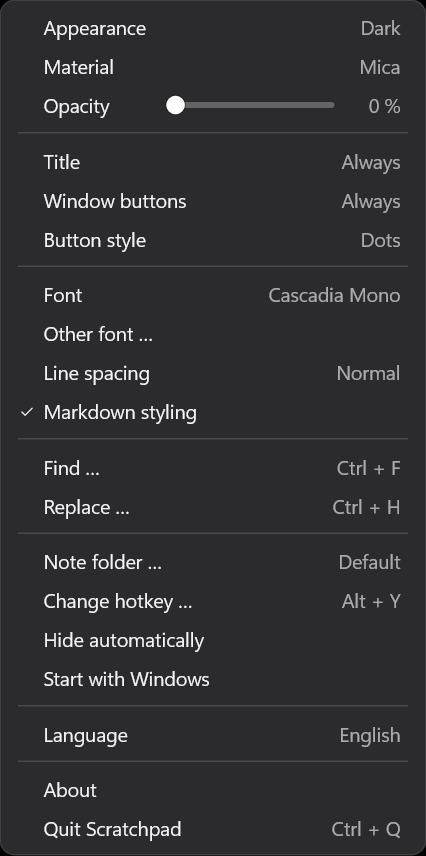
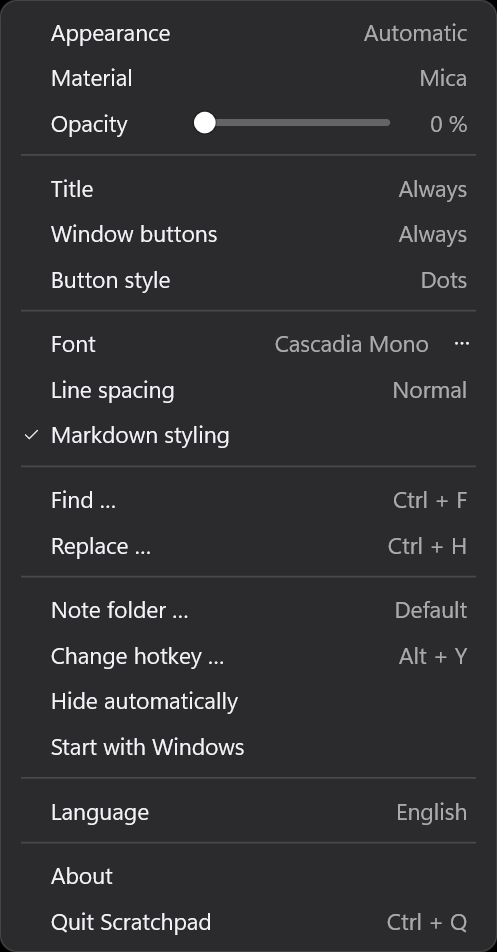
Scratchpad 1.9.3p: checklist markers hide, font list behind a button, SECURITY.md
- The "- " in front of a checklist box hides like the other syntax characters; it shows
  while the caret is on the marker or the box.
- The menu's "Other font" row is gone; a small button at the end of the font row opens the
  system font list (Enter on the row does the same).
- SECURITY.md: how to report a problem, what the app does and does not do.

diff --git a/src/menu.rs b/src/menu.rs
@@ -19,6 +19,8 @@ const SHADOW: f32 = 20.0;
 /// Horizontal extent of a slider's track inside its row, measured from the row's edges.
 const SLIDER_LEFT: f32 = 112.0;
 const SLIDER_RIGHT: f32 = 56.0;
+/// Width of the "more" button at the right end of a row that has one.
+const MORE_W: f32 = 28.0;
 
 #[derive(Clone, Copy, PartialEq)]
 pub enum Which {
@@ -52,6 +54,8 @@ struct MenuItem {
     enabled: bool,
     /// Slider position, 0–100.
     level: u32,
+    /// Command of a small "more" button at the row's right end (0 = none); it closes the menu.
+    more: usize,
 }
 
 pub struct Menu {
@@ -68,10 +72,12 @@ pub struct Menu {
     dpi: f32,
     /// A slider is being dragged.
     dragging: bool,
+    /// The pointer is on the hovered row's "more" button.
+    on_more: bool,
 }
 
 fn item(kind: Kind, label: &'static str, value: impl Into<String>, id: usize) -> MenuItem {
-    MenuItem { kind, label, value: value.into(), id, checked: false, enabled: true, level: 0 }
+    MenuItem { kind, label, value: value.into(), id, checked: false, enabled: true, level: 0, more: 0 }
 }
 
 fn separator() -> MenuItem {
@@ -123,8 +129,7 @@ impl App {
                     item(Kind::Cycle, tr("Fensterknöpfe", "Window buttons"), mode(&s.buttons_mode), ID_CYCLE_BUTTONS),
                     item(Kind::Cycle, tr("Knopf-Stil", "Button style"), [tr("Punkte", "Dots"), tr("Symbole", "Symbols")][position(&STYLES, &s.button_style)], ID_CYCLE_STYLE),
                     separator(),
-                    item(Kind::Cycle, tr("Schrift", "Font"), self.font_family(), ID_CYCLE_FONT),
-                    item(Kind::Action, tr("Andere Schrift …", "Other font …"), "", ID_FONT_PICK),
+                    MenuItem { more: ID_FONT_PICK, ..item(Kind::Cycle, tr("Schrift", "Font"), self.font_family(), ID_CYCLE_FONT) },
                     item(Kind::Cycle, tr("Zeilenabstand", "Line spacing"), spacing, ID_CYCLE_SPACING),
                     check(tr("Markdown-Formatierung", "Markdown styling"), ID_MARKDOWN, s.markdown),
                     separator(),
@@ -220,7 +225,7 @@ impl App {
         let y = (anchor.y - shadow).min(work.bottom + shadow - height).max(work.top - shadow);
 
         let Ok(gfx) = Gfx::new(prepared, self.menu_hwnd, width as u32, height as u32, dpi) else { return };
-        self.menu = Some(Menu { which, items, hover: None, gfx, origin: POINT { x, y }, margin, dpi, dragging: false });
+        self.menu = Some(Menu { which, items, hover: None, gfx, origin: POINT { x, y }, margin, dpi, dragging: false, on_more: false });
         self.menu_open = which == Which::Main; // keeps the title bar visible while its menu is open
         self.draw_menu();
         if takes_focus {
@@ -278,8 +283,14 @@ impl App {
             let row = rect(card.left + 5.0, y, WIDTH - 10.0, ROW_H);
             // A slider is operated by dragging, so it gets no "click me" highlight.
             let hot = menu.hover == Some(index) && item.enabled && item.kind != Kind::Slider;
+            // On the "more" button only the button lights up, so it reads as a target of its own.
+            let more = rect(row.right - MORE_W, y + 2.0, MORE_W - 2.0, ROW_H - 4.0);
+            let on_more = hot && menu.on_more && item.more != 0;
+            let hot = hot && !on_more;
             if hot {
                 g.fill_round(row, 5.0, p.highlight);
+            } else if on_more {
+                g.fill_round(more, 4.0, p.highlight);
             }
             let (text, secondary) = if hot {
                 (rgb(255, 255, 255), gray(0xD0, 0xFF))
@@ -292,8 +303,13 @@ impl App {
                 g.text("\u{E73E}", &self.fonts.icon_small, rect(row.left + 4.0, y, 18.0, ROW_H), text, DWRITE_TEXT_ALIGNMENT_CENTER);
             }
             g.text(item.label, &self.fonts.search, rect(row.left + 24.0, y, WIDTH - 44.0, ROW_H), text, DWRITE_TEXT_ALIGNMENT_LEADING);
+            let reserved = if item.more != 0 { MORE_W - 6.0 } else { 0.0 };
             if !item.value.is_empty() {
-                g.text(&item.value, &self.fonts.search, rect(row.left + 24.0, y, WIDTH - 46.0, ROW_H), secondary, DWRITE_TEXT_ALIGNMENT_TRAILING);
+                g.text(&item.value, &self.fonts.search, rect(row.left + 24.0, y, WIDTH - 46.0 - reserved, ROW_H), secondary, DWRITE_TEXT_ALIGNMENT_TRAILING);
+            }
+            if item.more != 0 {
+                let color = if on_more { rgb(255, 255, 255) } else { text };
+                g.text("\u{E712}", &self.fonts.icon_small, more, color, DWRITE_TEXT_ALIGNMENT_CENTER);
             }
             if item.kind == Kind::Slider {
                 let (left, right, middle) = (row.left + SLIDER_LEFT, row.right - SLIDER_RIGHT, y + ROW_H / 2.0);
@@ -327,10 +343,11 @@ impl App {
         None
     }
 
-    unsafe fn set_menu_hover(&mut self, hover: Option<usize>) {
+    unsafe fn set_menu_hover(&mut self, hover: Option<usize>, on_more: bool) {
         if let Some(menu) = &mut self.menu {
-            if menu.hover != hover {
+            if menu.hover != hover || menu.on_more != on_more {
                 menu.hover = hover;
+                menu.on_more = on_more;
                 self.draw_menu();
             }
         }
@@ -428,10 +445,16 @@ impl App {
             None
         };
         let kind = hover.map(|i| rows[i].0);
+        let more = hover.and_then(|i| menu.items.get(i)).map_or(0, |i| i.more);
         match VIRTUAL_KEY(vk as u16) {
             VK_ESCAPE => self.close_menu(),
-            VK_DOWN => self.set_menu_hover(step(true)),
-            VK_UP => self.set_menu_hover(step(false)),
+            VK_DOWN => self.set_menu_hover(step(true), false),
+            VK_UP => self.set_menu_hover(step(false), false),
+            // The keyboard's way to a row's "more" button; Space and the arrows step the value.
+            VK_RETURN if more != 0 => {
+                self.close_menu();
+                self.on_command(more);
+            }
             VK_LEFT | VK_RIGHT if kind == Some(Kind::Slider) => {
                 self.set_slider(hover.unwrap(), None, if vk == VK_RIGHT.0 as u32 { 5 } else { -5 });
                 self.settings.save();
@@ -453,6 +476,8 @@ impl App {
         let (x, y) = (loword(lparam.0) as f32 / scale, hiword(lparam.0) as f32 / scale);
         let (dragging, hover, takes_focus) = (menu.dragging, menu.hover, menu.which == Which::Tray);
         let row = self.menu_row_at(x, y);
+        let more = row.and_then(|i| menu.items.get(i)).map_or(0, |i| i.more);
+        let on_more = more != 0 && x >= menu.margin + WIDTH - 5.0 - MORE_W;
         let is_slider = |app: &App, index: Option<usize>| {
             index.and_then(|i| app.menu.as_ref()?.items.get(i)).is_some_and(|i| i.kind == Kind::Slider)
         };
@@ -466,9 +491,9 @@ impl App {
                     dwHoverTime: 0,
                 };
                 let _ = TrackMouseEvent(&mut track);
-                self.set_menu_hover(row);
+                self.set_menu_hover(row, on_more);
             }
-            WM_MOUSELEAVE if !dragging => self.set_menu_hover(None),
+            WM_MOUSELEAVE if !dragging => self.set_menu_hover(None, false),
             WM_LBUTTONDOWN if is_slider(self, row) => {
                 SetCapture(self.menu_hwnd);
                 if let Some(menu) = &mut self.menu {
@@ -483,6 +508,10 @@ impl App {
                 }
                 let _ = ReleaseCapture();
                 self.settings.save();
+            }
+            WM_LBUTTONUP if on_more => {
+                self.close_menu();
+                self.on_command(more);
             }
             WM_LBUTTONUP => {
                 if let Some(index) = row {

diff --git a/src/editor.rs b/src/editor.rs
@@ -144,6 +144,11 @@ fn parse_markdown(text: &[u16]) -> Markdown {
             0x78 | 0x58 => md.checkbox = Some((indent + 2, true)),
             _ => {}
         }
+        if md.checkbox.is_some() {
+            // The box stands for the list marker, so "- " hides. The span ends at "]": the caret
+            // behind the box (where a task is typed) must not bring the marker back.
+            md.spans.push(Span { from: indent, to: indent + 5, open: 2, close: 0 });
+        }
     }
 
     let mut i = if md.heading > 0 { hashes + 1 } else { 0 };
@@ -1175,6 +1180,18 @@ mod tests {
         assert_eq!(touched(&spans, 0, (14, 14)), 0b11);
         assert_eq!(touched(&spans, 0, (30, 30)), 0);
         assert_eq!(md("# ").spans, vec![]); // nothing to show but the #
+    }
+
+    #[test]
+    fn the_list_marker_of_a_checklist_item_hides() {
+        // "  - [x] da": the "- " hides unless the selection is on the marker or the box
+        let spans = md("  - [x] da").spans;
+        assert_eq!(spans, vec![Span { from: 2, to: 7, open: 2, close: 0 }]);
+        assert_eq!(touched(&spans, 0, (8, 8)), 0); // behind the box, where the task is typed
+        assert_eq!(touched(&spans, 0, (10, 10)), 0);
+        assert_eq!(touched(&spans, 0, (7, 7)), 1);
+        assert_eq!(touched(&spans, 0, (0, 2)), 1);
+        assert_eq!(md("- Punkt").spans, vec![]); // a plain list item keeps its marker
     }
 
     #[test]

diff --git a/src/main.rs b/src/main.rs
@@ -108,8 +108,8 @@ const ID_REPLACE: usize = 196;
 const ID_FONT_PICK: usize = 197;
 const MENU_CLASS: PCWSTR = w!("ScratchpadMenu");
 /// Shown in the Info card; the "p" stands for performance. Cargo.toml carries the same
-/// number without the letter (1.9.2), because Cargo does not accept a suffix like this.
-const VERSION: &str = "1.9.2p";
+/// number without the letter (1.9.3), because Cargo does not accept a suffix like this.
+const VERSION: &str = "1.9.3p";
 
 const THEMES: [&str; 3] = ["Auto", "Light", "Dark"];
 const MATERIALS: [&str; 3] = ["Acrylic", "Mica", "Glass"];

diff --git a/SECURITY.md b/SECURITY.md
@@ -1,0 +1,44 @@
+# Security
+
+## Supported versions
+
+Only the [latest release](https://github.com/dathaf/scratchpad/releases/latest) gets fixes.
+Scratchpad is a personal project without a support promise; a fix ships as a new version.
+
+## Reporting a vulnerability
+
+Please do not open a public issue for a security problem. Use GitHub's private form instead:
+**Security → Report a vulnerability** on the
+[repository page](https://github.com/dathaf/scratchpad/security/advisories/new). Only the
+maintainer sees such a report.
+
+Helpful in a report: the Scratchpad version (menu → About), the Windows version, and the steps
+that show the problem. This is a one-person project, so an answer can take a few days.
+
+## What the app does and does not do
+
+Knowing this helps to judge whether something is a vulnerability:
+
+- **No network access.** Scratchpad opens no connections, has no updater and sends no data.
+  A link in the note is handed to Windows, which opens it in the default browser, and only
+  after `Ctrl` + click.
+- **Plain files.** The note, its backups and the settings are unencrypted files in
+  `%APPDATA%\Scratchpad` (or the folder chosen in the menu). Anyone who can read the user's
+  files can read the note; do not keep passwords in it.
+- **No elevated rights.** The app runs with the user's own rights. "Start with Windows" writes
+  one entry for the current user to the registry; nothing is installed system-wide.
+- **Not code-signed.** Windows therefore warns on first start. From version 1.9.3p on, the exe
+  of every release is built by GitHub from the tagged source; the build log of the
+  [workflow run](https://github.com/dathaf/scratchpad/actions/workflows/build.yml) prints its
+  SHA-256 checksum, which can be compared with the download:
+
+  ```
+  Get-FileHash Scratchpad.exe -Algorithm SHA256
+  ```
+
+## Out of scope
+
+- The SmartScreen warning for an unsigned exe.
+- Anything that needs an attacker who already has the user's rights on the PC (reading the note
+  file, replacing the exe, changing `settings.json`).
+- Problems in Windows itself or in the fonts installed on the system.

diff --git a/README.md b/README.md
@@ -19,7 +19,8 @@ about 9 MB of memory.
   The app keeps running in the notification area.
 - **Light Markdown**: headings, **bold**, `code`, checklists you can tick, links you can open.
   The syntax characters hide while the caret is somewhere else, so the note reads like a document.
-- **Search and replace**, undo and redo, any installed font, adjustable size and line spacing.
+- **Search and replace**, undo and redo, any installed font ("⋯" next to the font opens the
+  system's font list), adjustable size and line spacing.
 - **Translucent backdrop**: Acrylic, Mica or Liquid, with adjustable opacity; light, dark or
   following Windows.
 - **Title bar your way**: round buttons on the left or symbols on the right, shown always, on
@@ -45,10 +46,11 @@ Requires Windows 11 22H2 or newer for the translucent backdrops.
 The exe is not code-signed, because a certificate costs money every year. Windows therefore shows
 a blue SmartScreen warning the first time you start it. Click **More info**, then **Run anyway**.
 
-If you would rather not trust a download: from the version after 1.9.2p on, the exe of every
+If you would rather not trust a download: from version 1.9.3p on, the exe of every
 release is built by GitHub itself from the tagged source (see
 [`.github/workflows/build.yml`](.github/workflows/build.yml); the build log prints its SHA-256
-checksum), or you can build it yourself, see [Building](#building).
+checksum), or you can build it yourself, see [Building](#building). How to report a security
+problem is described in [SECURITY.md](SECURITY.md).
 
 ## Keyboard
 
